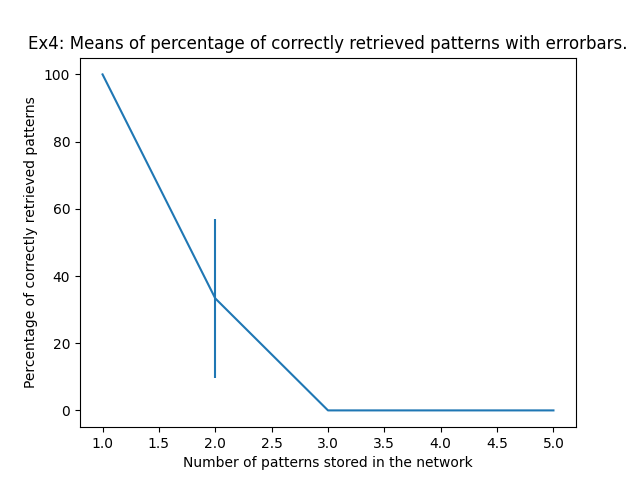
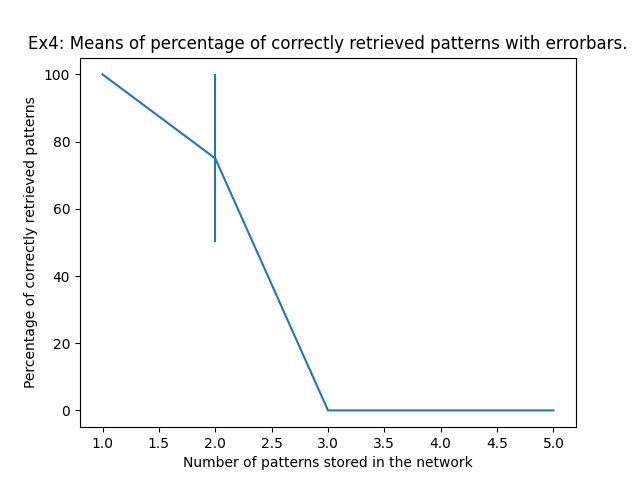
Keeping the one with 6 runs

diff --git a/Part3/run.py b/Part3/run.py
@@ -158,5 +158,5 @@ def ex4(n_steps, n_trials):
 
 if __name__ == "__main__":
     print("Exercise 4 (and 3) results:")
-    mean_capacity = ex4(20, 6)
-    print("Capacity of the network for sparseness a = 0.1:", mean_capacity)
+    mean_capacity = ex4(6, 6)
+    print("Mean m_max value of the network for sparseness a = 0.1:", mean_capacity)
